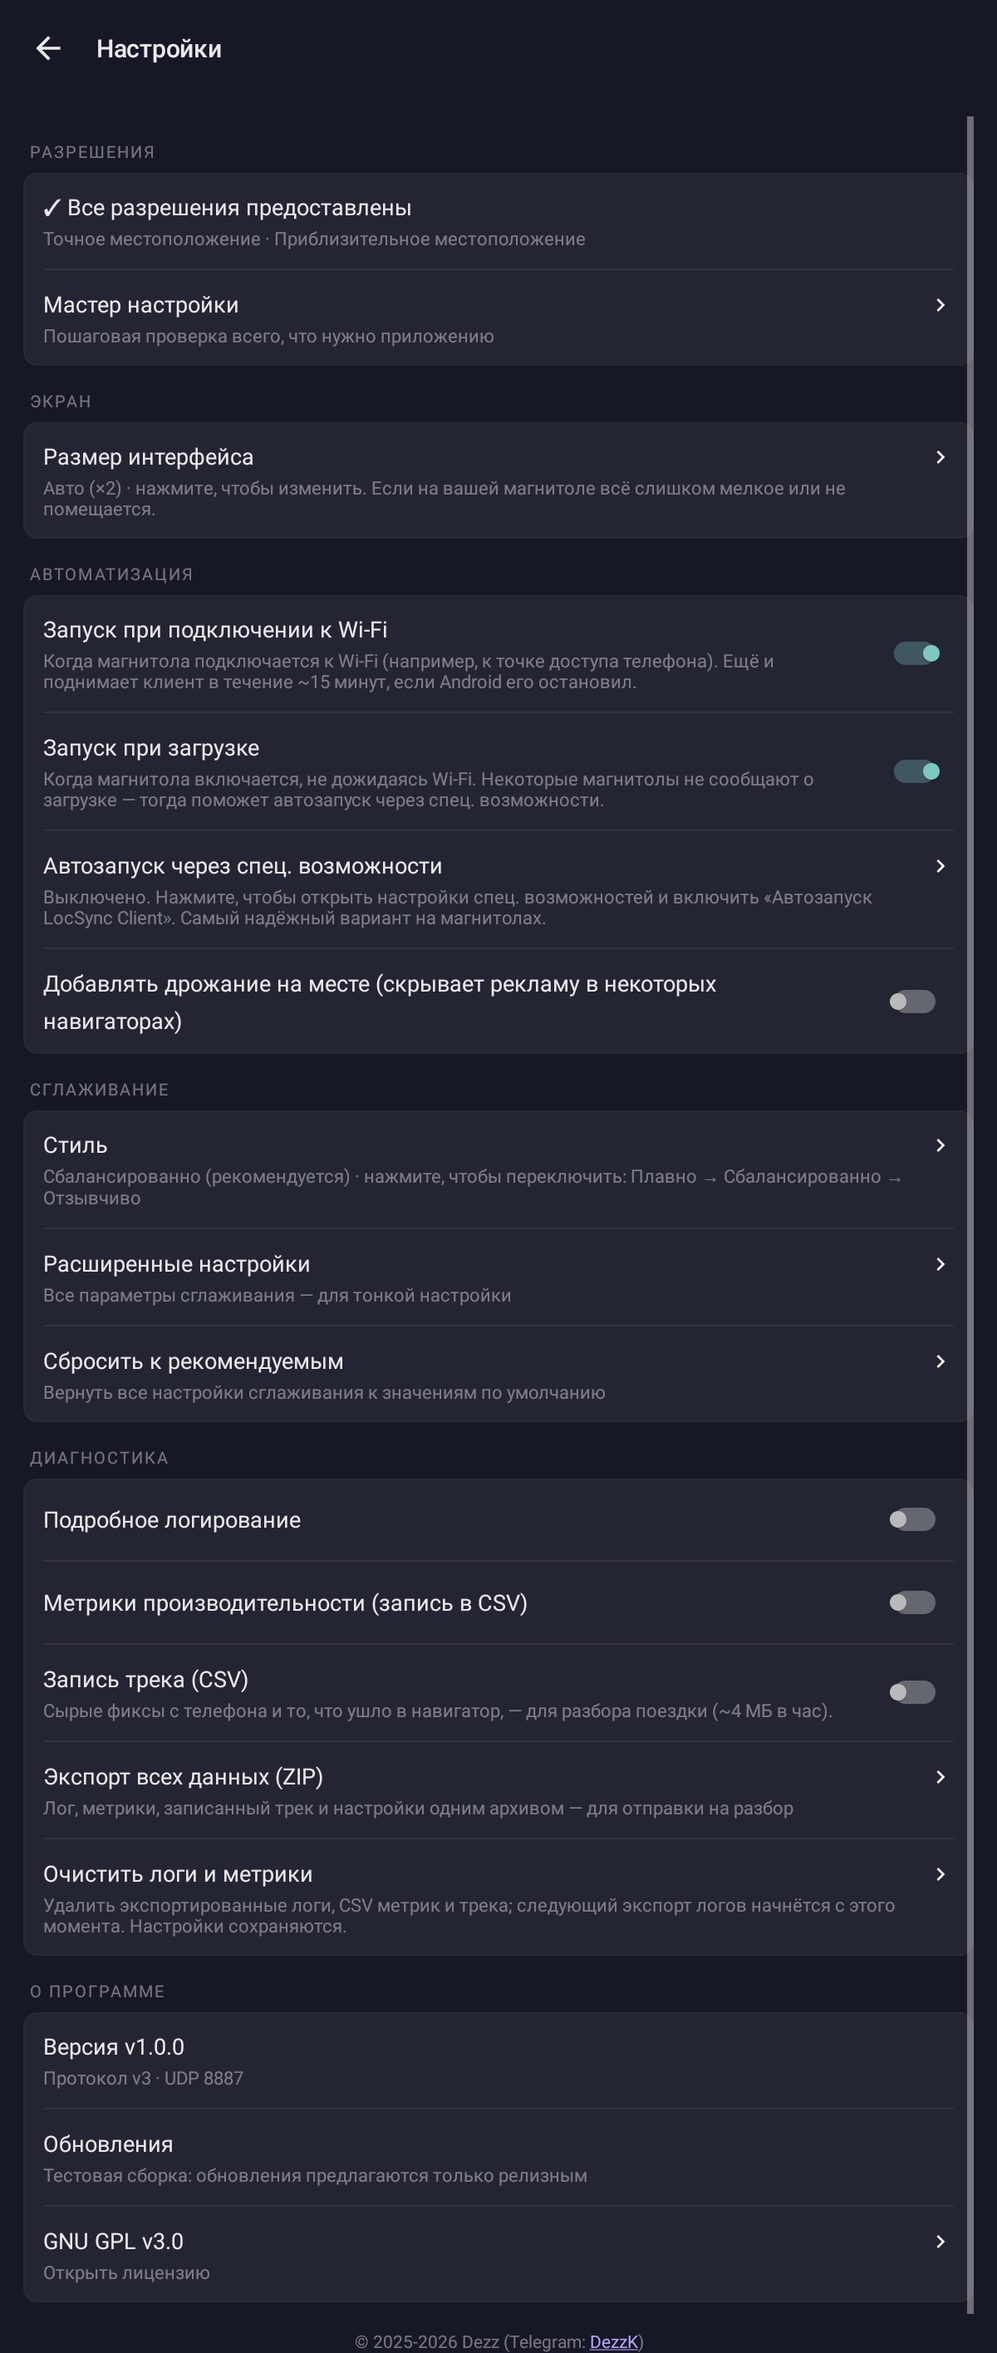
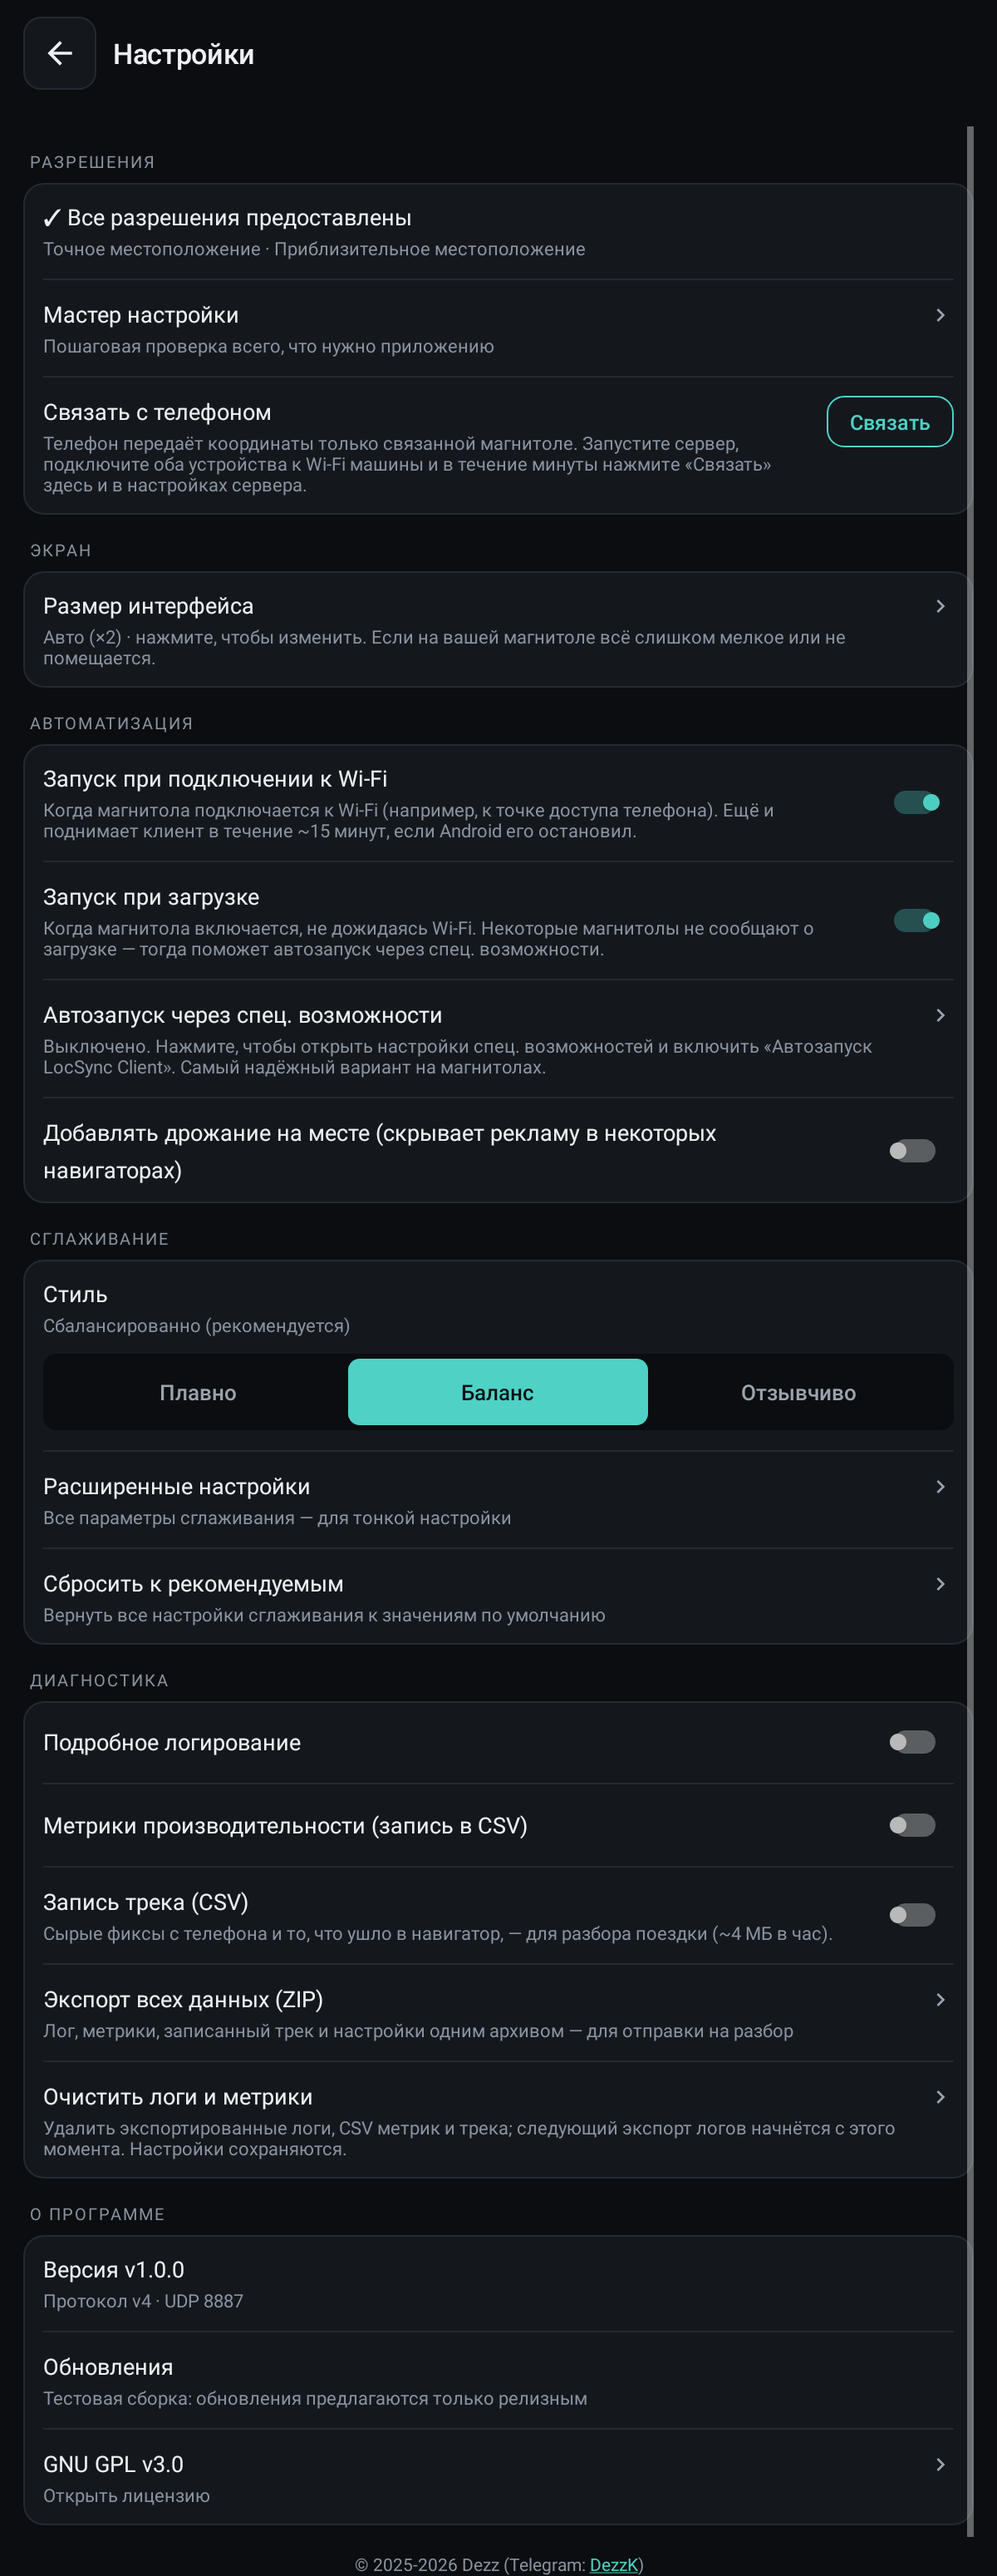
README for the Cluster design, regenerated screenshots, small UI fixes
README: new screenshots rendered from the current screens, the home
screen description rewritten for the status strip, speed and heading
readouts, and a pairing step added to first-time setup (required since
protocol v4) with a matching troubleshooting entry.

Screenshot tests: the home capture probed the page with an unbounded
measure and drew it without a fresh pass, so views that fill free space
rendered as if unsized. It now re-measures before drawing.

App: the hero number sits on the bottom of its area, next to its unit
(client) or the signal bars (server); the client may grow it to 260sp.
About shows the real protocol version and port instead of a hardcoded
"v3".

diff --git a/client-app/src/main/java/goodvin/locsync/client/MainActivity.java b/client-app/src/main/java/goodvin/locsync/client/MainActivity.java
@@ -59,6 +59,7 @@ import java.util.Locale;
 import goodvin.locsync.proto.LocationProto;
 import goodvin.locsync.shared.AppLog;
 import goodvin.locsync.shared.LinkState;
+import goodvin.locsync.shared.Protocol;
 import goodvin.locsync.shared.SettingsRows;
 import goodvin.locsync.shared.SetupChecklist;
 import goodvin.locsync.shared.SparklineView;
@@ -623,7 +624,7 @@ public class MainActivity extends AppCompatActivity {
         String buildLabel = getString(R.string.build_label);
         String shown = buildLabel.isEmpty() ? appVersion : buildLabel;
         bindAction(R.id.rowVersion, getString(R.string.version_label, shown),
-                getString(R.string.about_protocol), false, null);
+                getString(R.string.about_protocol, Protocol.VERSION, Protocol.PORT), false, null);
         // Local, branch and CI builds aren't releases (different signature, placeholder version):
         // only release-workflow builds look for updates.
         updateRow = new UpdateRow(this, findViewById(R.id.rowUpdate), "locsync-client-", appVersion,

diff --git a/client-app/src/test/java/goodvin/locsync/client/ScreenshotsTest.java b/client-app/src/test/java/goodvin/locsync/client/ScreenshotsTest.java
@@ -171,8 +171,11 @@ public class ScreenshotsTest {
                 page.measure(View.MeasureSpec.makeMeasureSpec(page.getWidth(), View.MeasureSpec.EXACTLY),
                         View.MeasureSpec.makeMeasureSpec(0, View.MeasureSpec.UNSPECIFIED));
                 extra = Math.max(0, page.getMeasuredHeight() - flipper.getHeight());
+                // The probe left the page's children with unbounded measured sizes; without a fresh
+                // pass, views that fill free space (the hero readout) would draw as if unsized.
+                page.requestLayout();
             }
-            if (extra > 0) {
+            if (extra > 0 || scroll == null) {
                 int newH = h + extra;
                 root.measure(View.MeasureSpec.makeMeasureSpec(w, View.MeasureSpec.EXACTLY),
                         View.MeasureSpec.makeMeasureSpec(newH, View.MeasureSpec.EXACTLY));

diff --git a/server-app/src/test/java/goodvin/locsync/server/ScreenshotsTest.java b/server-app/src/test/java/goodvin/locsync/server/ScreenshotsTest.java
@@ -140,8 +140,11 @@ public class ScreenshotsTest {
                 page.measure(View.MeasureSpec.makeMeasureSpec(page.getWidth(), View.MeasureSpec.EXACTLY),
                         View.MeasureSpec.makeMeasureSpec(0, View.MeasureSpec.UNSPECIFIED));
                 extra = Math.max(0, page.getMeasuredHeight() - flipper.getHeight());
+                // The probe left the page's children with unbounded measured sizes; without a fresh
+                // pass, views that fill free space (the hero readout) would draw as if unsized.
+                page.requestLayout();
             }
-            if (extra > 0) {
+            if (extra > 0 || scroll == null) {
                 int newH = h + extra;
                 root.measure(View.MeasureSpec.makeMeasureSpec(w, View.MeasureSpec.EXACTLY),
                         View.MeasureSpec.makeMeasureSpec(newH, View.MeasureSpec.EXACTLY));

diff --git a/server-app/src/main/java/goodvin/locsync/server/MainActivity.java b/server-app/src/main/java/goodvin/locsync/server/MainActivity.java
@@ -505,7 +505,7 @@ public class MainActivity extends AppCompatActivity {
         String buildLabel = getString(R.string.build_label);
         String shown = buildLabel.isEmpty() ? appVersion : buildLabel;
         bindAction(R.id.rowVersion, getString(R.string.version_label, shown),
-                getString(R.string.about_protocol), false, null);
+                getString(R.string.about_protocol, Protocol.VERSION, Protocol.PORT), false, null);
         // Local, branch and CI builds aren't releases (different signature, placeholder version):
         // only release-workflow builds look for updates.
         updateRow = new UpdateRow(this, findViewById(R.id.rowUpdate), "locsync-server-", appVersion,
